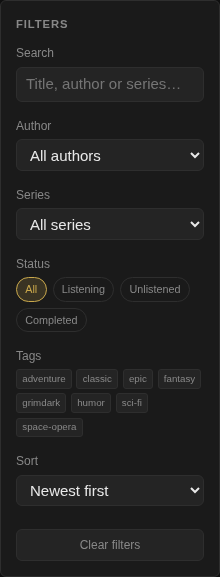
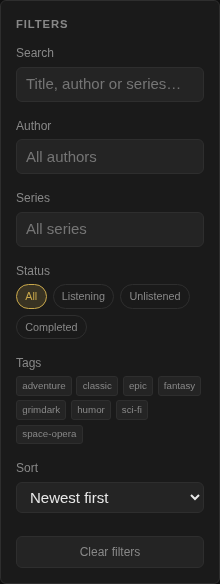
Replace author/series dropdowns with comboboxes and cache screenshot covers
- Swap <select> for <input type="text" list="..."> + <datalist> on author and
  series filters so users can type to narrow down long lists
- Cache OpenLibrary cover images in scripts/.cover_cache/ (gitignored) to
  avoid re-fetching on every screenshot run
- Regenerate affected screenshots

diff --git a/static/app.js b/static/app.js
@@ -428,11 +428,11 @@ async function refreshLibraryView(session) {
 
   // Initial render — build the full layout and wire up event listeners
   const authorsOptions = (metaCache.authors || [])
-    .map(a => `<option value="${esc(a)}" ${filterState.author === a ? "selected" : ""}>${esc(a)}</option>`)
+    .map(a => `<option value="${esc(a)}">`)
     .join("");
 
   const seriesOptions = (metaCache.series || [])
-    .map(s => `<option value="${esc(s)}" ${filterState.series === s ? "selected" : ""}>${esc(s)}</option>`)
+    .map(s => `<option value="${esc(s)}">`)
     .join("");
 
   const tagChipsFilter = (metaCache.tags || [])
@@ -451,17 +451,13 @@ async function refreshLibraryView(session) {
         </div>
         <div class="filter-group">
           <label for="author-select">Author</label>
-          <select id="author-select">
-            <option value="">All authors</option>
-            ${authorsOptions}
-          </select>
+          <input type="text" id="author-select" list="author-list" placeholder="All authors" value="${esc(filterState.author)}" autocomplete="off">
+          <datalist id="author-list">${authorsOptions}</datalist>
         </div>
         <div class="filter-group">
           <label for="series-select">Series</label>
-          <select id="series-select">
-            <option value="">All series</option>
-            ${seriesOptions}
-          </select>
+          <input type="text" id="series-select" list="series-list" placeholder="All series" value="${esc(filterState.series)}" autocomplete="off">
+          <datalist id="series-list">${seriesOptions}</datalist>
         </div>
         <div class="filter-group">
           <label>Status</label>
@@ -510,13 +506,41 @@ async function refreshLibraryView(session) {
     searchDebounce = setTimeout(() => refreshLibraryView(session), 300);
   });
 
-  document.getElementById("author-select").addEventListener("change", e => {
-    filterState.author = e.target.value;
+  const authorInput = document.getElementById("author-select");
+  authorInput.addEventListener("input", e => {
+    const val = e.target.value;
+    if (val === "" || (metaCache.authors || []).includes(val)) {
+      filterState.author = val;
+      refreshLibraryView(session);
+    }
+  });
+  authorInput.addEventListener("change", e => {
+    const val = e.target.value;
+    if ((metaCache.authors || []).includes(val)) {
+      filterState.author = val;
+    } else {
+      filterState.author = "";
+      e.target.value = "";
+    }
     refreshLibraryView(session);
   });
 
-  document.getElementById("series-select").addEventListener("change", e => {
-    filterState.series = e.target.value;
+  const seriesInput = document.getElementById("series-select");
+  seriesInput.addEventListener("input", e => {
+    const val = e.target.value;
+    if (val === "" || (metaCache.series || []).includes(val)) {
+      filterState.series = val;
+      refreshLibraryView(session);
+    }
+  });
+  seriesInput.addEventListener("change", e => {
+    const val = e.target.value;
+    if ((metaCache.series || []).includes(val)) {
+      filterState.series = val;
+    } else {
+      filterState.series = "";
+      e.target.value = "";
+    }
     refreshLibraryView(session);
   });
 

diff --git a/scripts/screenshot.py b/scripts/screenshot.py
@@ -17,6 +17,7 @@ from pathlib import Path
 
 REPO_ROOT = Path(__file__).parent.parent
 OUTPUT_DIR = REPO_ROOT / "docs" / "screenshots"
+COVER_CACHE_DIR = Path(__file__).parent / ".cover_cache"
 
 FEATURED_ID = "58a1ef4144ac"  # Dune by Frank Herbert
 _NOW = datetime.now(timezone.utc).isoformat()
@@ -162,11 +163,19 @@ def fetch_cover(title: str, author: str) -> bytes | None:
 
 
 def seed_covers(covers_dir: Path, metadata: dict) -> dict:
-    """Fetch real covers from OpenLibrary; update metadata cover fields."""
+    """Fetch real covers from OpenLibrary (cached); update metadata cover fields."""
     covers_dir.mkdir(parents=True, exist_ok=True)
+    COVER_CACHE_DIR.mkdir(parents=True, exist_ok=True)
     for book_id, book in metadata["books"].items():
-        print(f"  Fetching cover: {book['title']} ...")
-        img = fetch_cover(book["title"], book["author"])
+        cache_path = COVER_CACHE_DIR / f"{book_id}.jpg"
+        if cache_path.exists():
+            print(f"  Cover cached: {book['title']}")
+            img = cache_path.read_bytes()
+        else:
+            print(f"  Fetching cover: {book['title']} ...")
+            img = fetch_cover(book["title"], book["author"])
+            if img:
+                cache_path.write_bytes(img)
         if img:
             filename = f"{book_id}.jpg"
             (covers_dir / filename).write_bytes(img)
